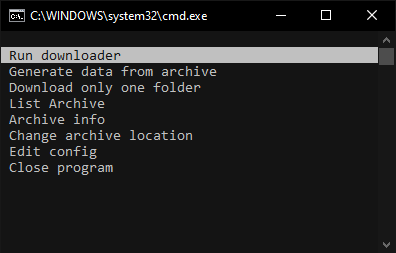
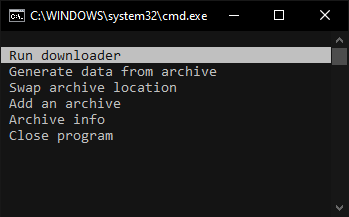
improved readme + small fix

diff --git a/index.js b/index.js
@@ -182,7 +182,13 @@ function mainMenu(message = '', clear = true) {
 				config.selectedArchive = response.selectedIndex;
 				fs.writeFileSync('./config.json', JSON.stringify(config, null, 4), 'utf-8');
 
-				archiveInfo();
+				if (!fs.existsSync(config.archives[config.selectedArchive].dataJSON)) {
+					fs.writeFileSync(config.archives[config.selectedArchive].dataJSON, '{"table":[]}', 'utf-8');
+					mainMenu('The data file was invalid, you will need to generate it\'s contents.');
+				}
+				else {
+					archiveInfo();
+				}
 			});
 			break;
 

diff --git a/README.md b/README.md
@@ -3,26 +3,26 @@
 ![Screenshot](images/image.png)
 
 
-## Usage
+# Usage
 
 First set up a folder filled with subfolders named after tags from e621. These folders should be empty unless the files within are stored like `<id>_<md5>.<ext>`. In the below example the folder is named "archive" and is filled with some example subfolders.
 
 ![Screenshot](images/Pasted%20image%2020230530171713.png)
 
 
-Then put the exe in another folder outside of your archive folder.
+Then put the exe in another folder _outside_ of your archive folder.
 
 ![Screenshot](images/Pasted%20image%2020230530172105.png)
 
 
-IMPORTANT: If your archive folder is named something else and/or is in a different relative location from the exe you will have to specify this in the `config.json` file. This file will be generated in the same place as the exe once you open it for the first time. You can also change this through the console menu that the program provides.
+If want your archive folder to be named something else and/or want it in a different relative location from the exe you will have to specify this in the `config.json` file under `archives[0].folder` as shown in the image below. The config file will be generated in the same place as the exe once you open it for the first time.
 
-![Screenshot](images/Pasted%20image%2020230530172800.png)
+![Screenshot](images/editLocationExample.png)
 
 
 If everything is set up correctly you should now choose the "Generate data from archive" option. You will need to choose this option whenever you make changes to your archive folder such as adding a new folder or removing one.
 
-![Screenshot](images/Capture1.png)
+![Screenshot](images/Pasted%20image%2020230618220839.png)
 
 
 If everything went right you can now choose the "Run downloader" option and the subfolders will start filling up with files from e621 that contained tags that match the folder's name.
@@ -35,7 +35,19 @@ You can add/remove folders and the program will still work as long as you genera
 If you have an issue or feel that something about the program should be different then please submit an issue or pull request.
 
 
-## Info
+## Adding multiple archives
+
+The "Add an archive" option can be used to add more locations where files can be downloaded. In this example the new archive is inside of the old one but keep in mind it can be wherever.
+
+![Screenshot](images/appendExample.png)
+
+
+You can also add a location (and data file) manually through the `config.json` file.
+
+![Screenshot](images/Pasted%20image%2020230618215722.png)
+
+
+# Info
 
 This program was made out of annoyance with most downloaders that only let you do one query at a time. After some time with a collection large enough this becomes pretty impractical and so I made this program to make things (hopefully) easier.
 
